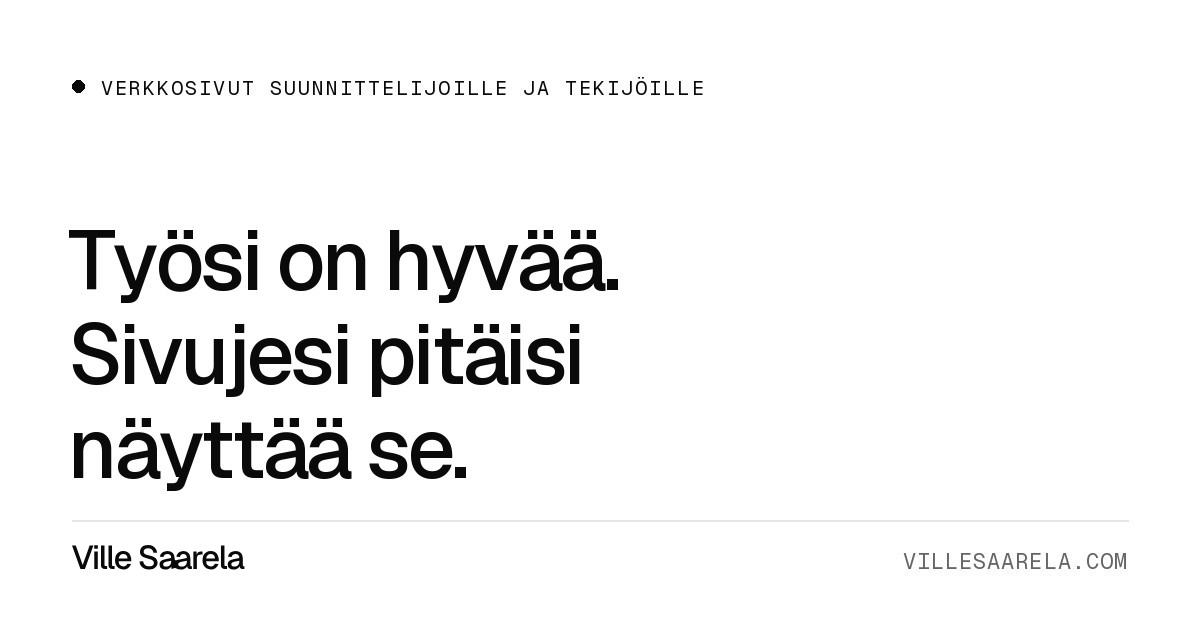
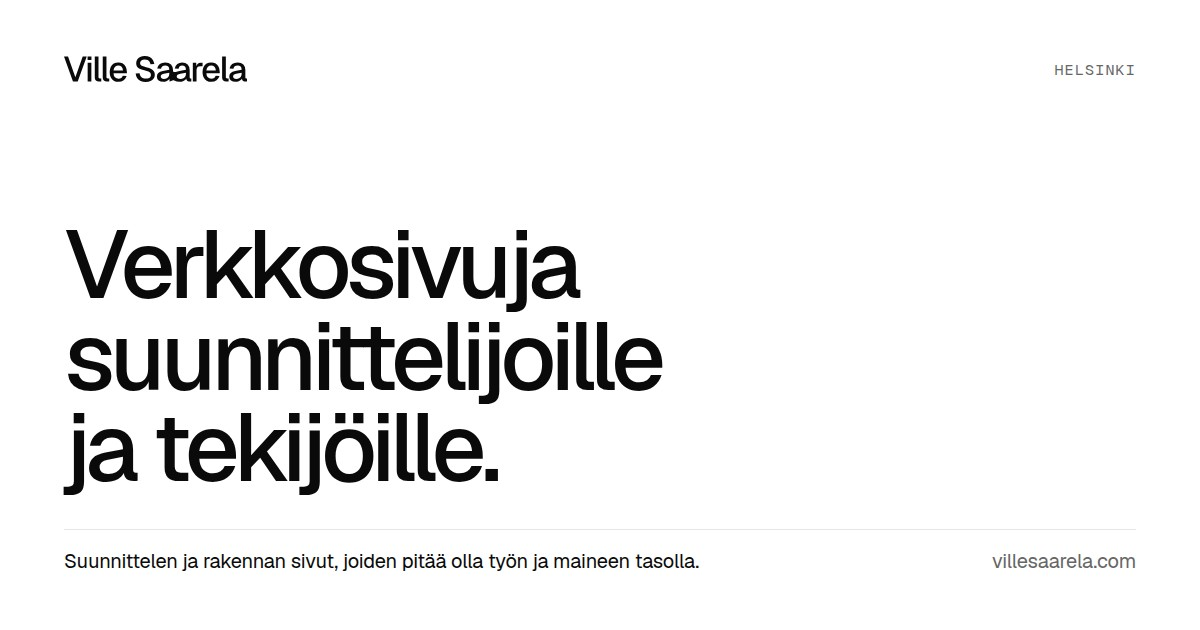
Share image with the new headline
Claude-Session: https://claude.ai/code/session_01YUi8FNKhUwxqsvjCFjCdqj

diff --git a/index.html b/index.html
@@ -17,7 +17,7 @@
   <meta property="og:image" content="https://www.villesaarela.com/assets/img/og.jpg">
   <meta property="og:image:width" content="1200">
   <meta property="og:image:height" content="630">
-  <meta property="og:image:alt" content="Ville Saarela – verkkosivut suunnittelijoille ja tekijöille">
+  <meta property="og:image:alt" content="Ville Saarela: Verkkosivuja suunnittelijoille ja tekijöille.">
   <meta name="twitter:card" content="summary_large_image">
   <meta name="twitter:title" content="Verkkosivut suunnittelijoille ja tekijöille | Ville Saarela">
   <meta name="twitter:description" content="Suunnittelen ja rakennan sivut, joiden pitää olla työn ja maineen tasolla.">
